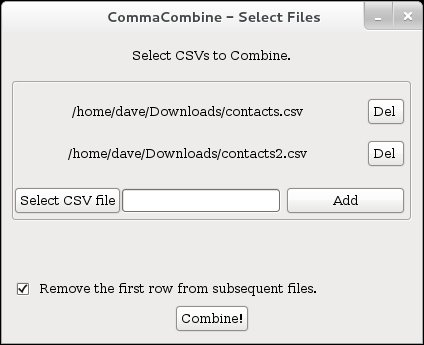
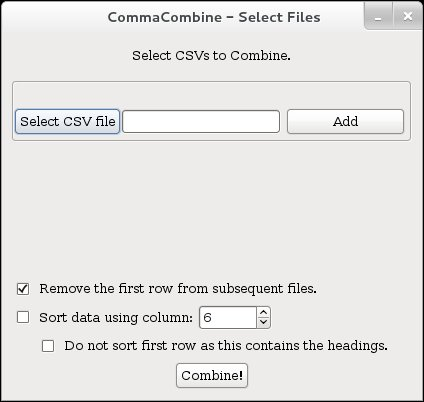
Sort Added

diff --git a/CommaCombine.py b/CommaCombine.py
@@ -18,7 +18,7 @@
 #    along with this program.  If not, see <http://www.gnu.org/licenses/>.
 
 
-import pygtk,gtk,csv
+import pygtk,gtk,csv,operator
 pygtk.require('2.0')
 
 arr = []
@@ -126,10 +126,18 @@ class mainScreen():
 		if len(self.dataArray) != 0:
 			### In case the user submitted no CSVs ###
 			### Sort the array ###
-
-
-
-
+			if self.sortCheck.get_active():
+				### Check if user gave a valid column
+				if self.sortspinner.get_value_as_int() <= len(self.dataArray[0]):
+					### We can sort ###
+					### Check if we are to remove the first row
+					if self.sort2Check.get_active():
+						a = self.dataArray[0]
+						self.dataArray.pop(0)
+						self.dataArray = sorted(self.dataArray, key=operator.itemgetter(self.sortspinner.get_value_as_int()-1))
+						self.dataArray.insert(0,a)
+					else:
+						self.dataArray = sorted(self.dataArray, key=operator.itemgetter(self.sortspinner.get_value_as_int()-1))
 			### Open Dialog asking user where they would like the new CSV stored ###
 			dialog = gtk.FileChooserDialog(title=None,action=gtk.FILE_CHOOSER_ACTION_SAVE,buttons=(gtk.STOCK_CANCEL,gtk.RESPONSE_CANCEL,gtk.STOCK_OPEN,gtk.RESPONSE_OK))
 			dialog.set_current_name("Output.csv")
@@ -212,6 +220,42 @@ class mainScreen():
 		main_vbox.pack_start(removeHeadings_hbox, True, False, 0)
 		removeHeadings_hbox.pack_start(self.removeHeadingsCheck, False, False, 0)
 		removeHeadings_hbox.pack_start(removeHeadingslabel, False, False, 0)
+
+		####Extra2#####
+		self.sortCheck = gtk.CheckButton()
+		self.sortCheck.set_active(False)
+		
+		sortlabel = gtk.Label("Sort data using column:")
+		sortlabel.set_alignment(0.5, 0.5)
+		sortlabel.set_line_wrap(True)
+
+
+		adj = gtk.Adjustment(6, 1.0, 999999.0, 1.0, 5.0, 0.0)
+		self.sortspinner = gtk.SpinButton(adj, 0, 0)
+		self.sortspinner.set_wrap(True)
+
+		sort2label = gtk.Label("Do not sort first row as this contains the headings.")
+		sort2label.set_alignment(0.5, 0.5)
+		sort2label.set_line_wrap(True)
+
+		sort2spacer = gtk.Label("     ")
+
+		self.sort2Check = gtk.CheckButton()
+		self.sort2Check.set_active(False)
+
+		sort_hbox = gtk.HBox(False, 5)
+		sort2_hbox = gtk.HBox(False, 5)
+
+		main_vbox.pack_start(sort_hbox, True, False, 0)
+		main_vbox.pack_start(sort2_hbox, True, False, 0)
+
+		sort_hbox.pack_start(self.sortCheck, False, False, 0)
+		sort_hbox.pack_start(sortlabel, False, False, 0)
+		sort_hbox.pack_start(self.sortspinner, False, False, 0)
+
+		sort2_hbox.pack_start(sort2spacer, False, False, 0)
+		sort2_hbox.pack_start(self.sort2Check, False, False, 0)
+		sort2_hbox.pack_start(sort2label, False, False, 0)
 
 		####Buttons#####
 		importButton = gtk.Button("Combine!")
